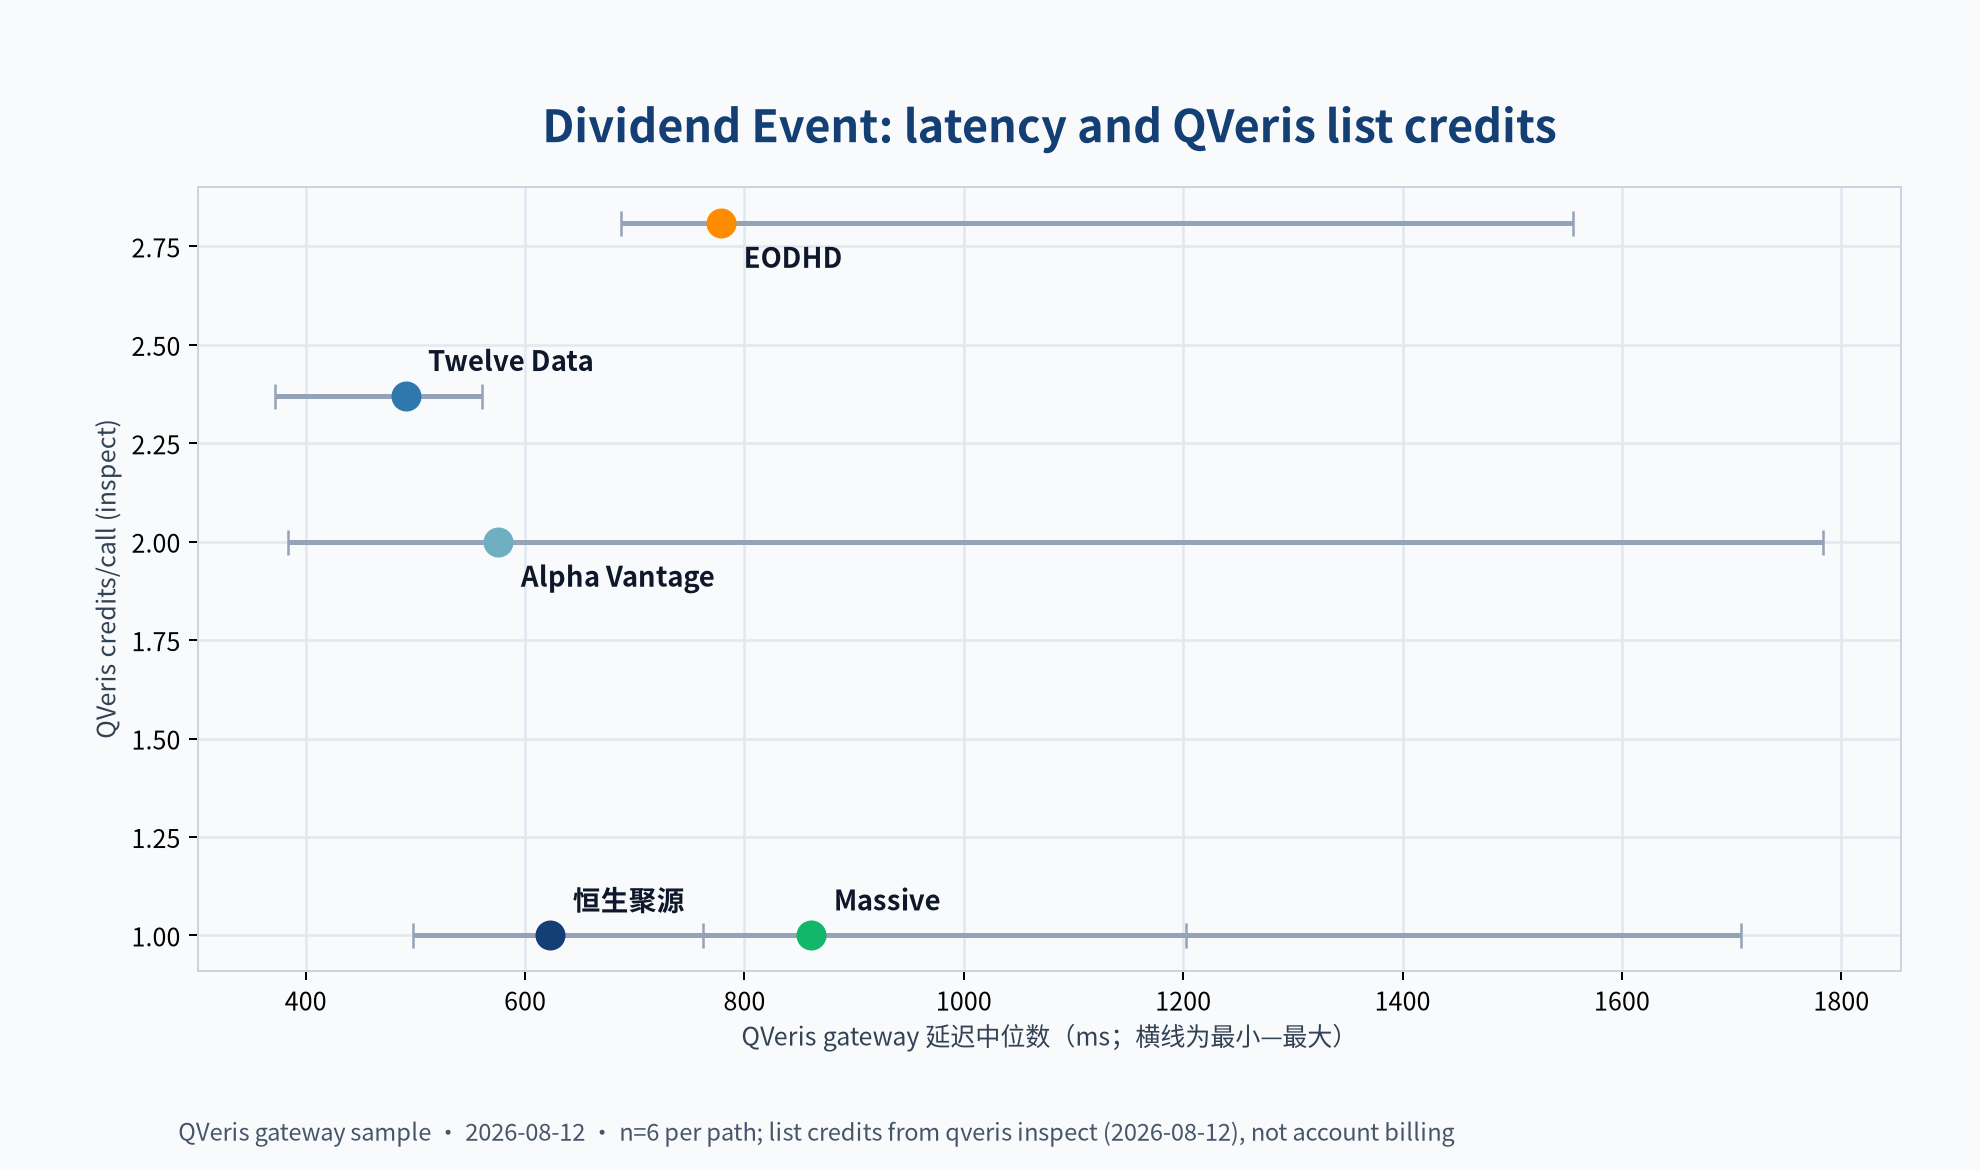
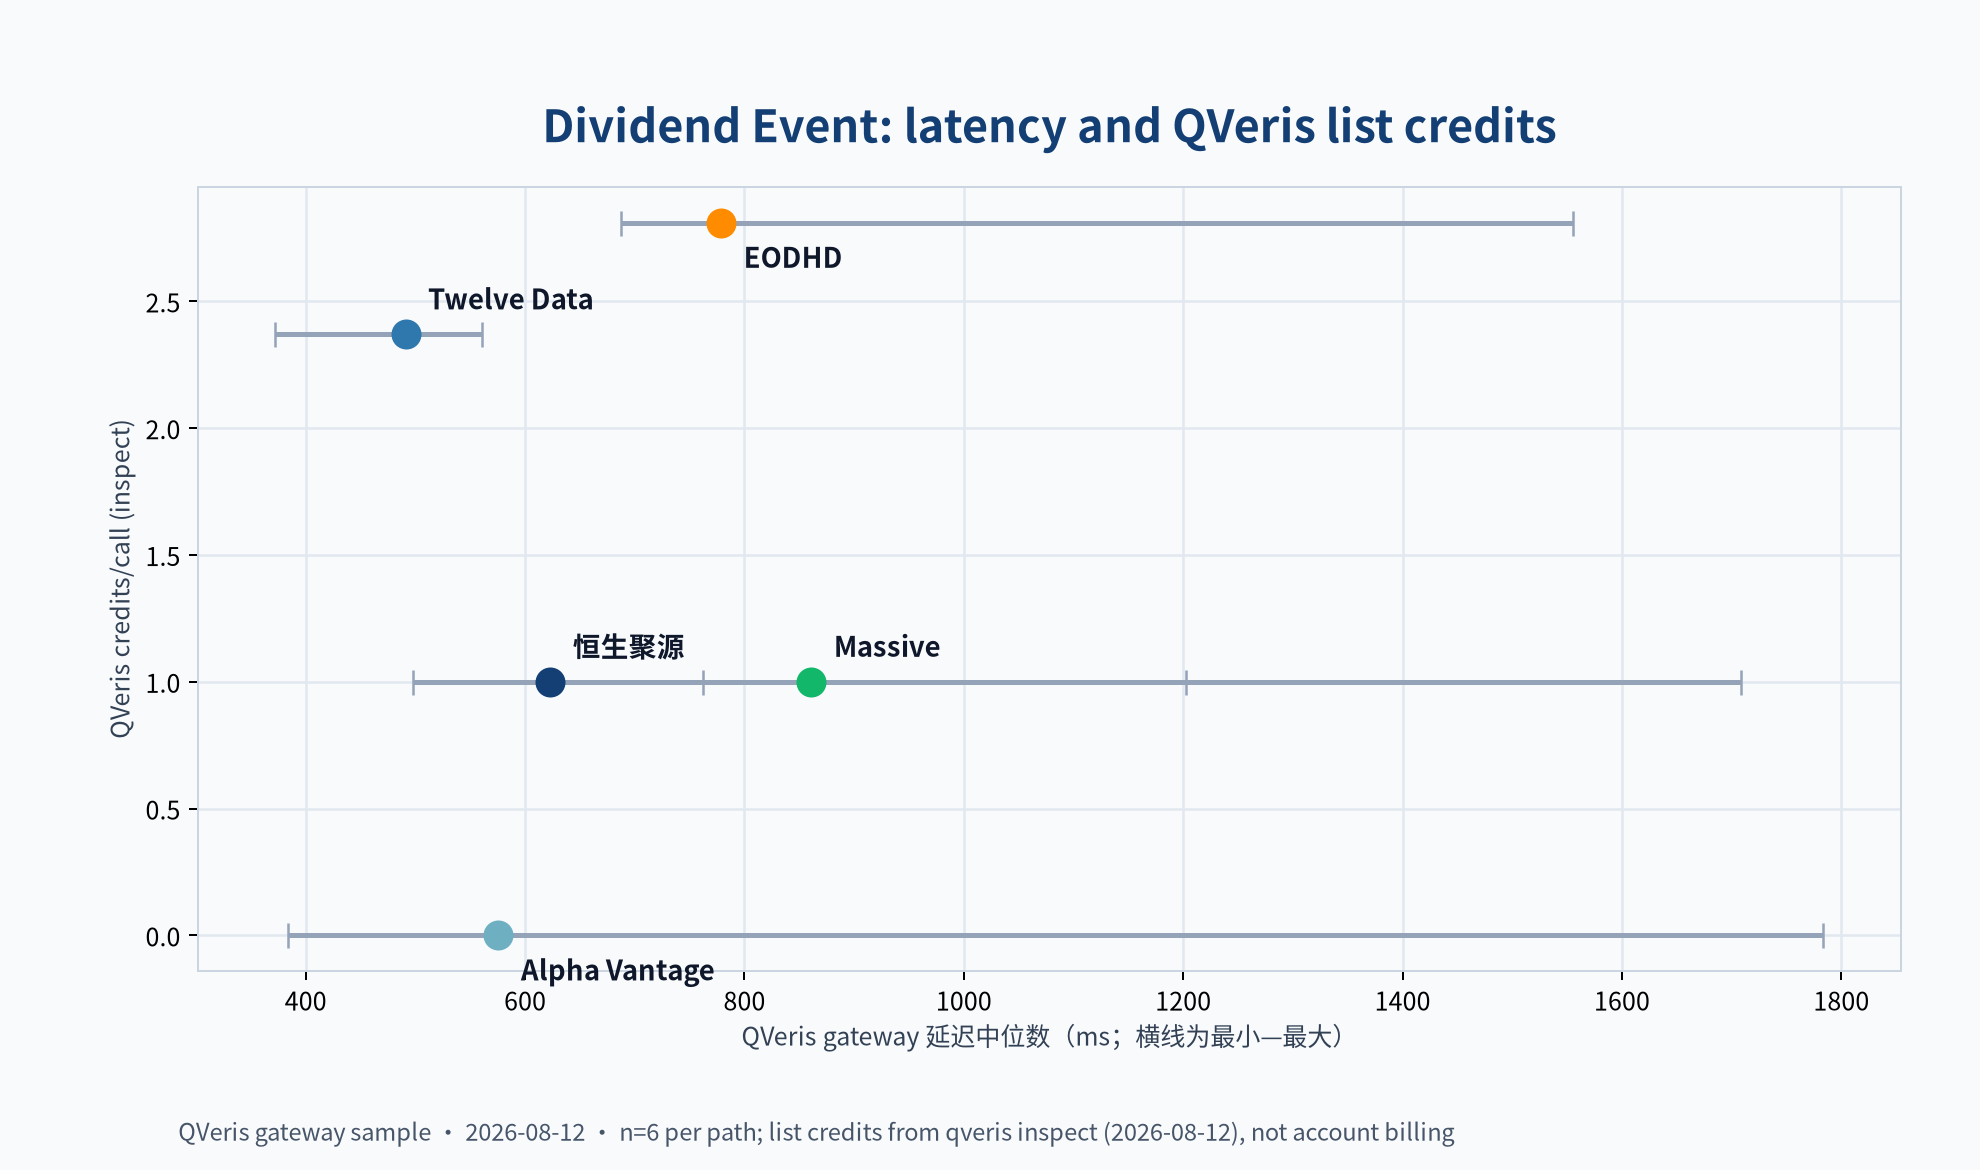
fix: refresh current QVeris list pricing
Bind the buyer guide to the live Inspect snapshot, including the current free Alpha Vantage Tool, instead of preserving a stale list price.\n\nCo-Authored-By: Codex GPT-5 <noreply@openai.com>

diff --git a/src/qveris_bench/profiles/selection.py b/src/qveris_bench/profiles/selection.py
@@ -266,6 +266,9 @@ def build_selection_snapshot(input_path: Path, root: Path) -> SelectionSnapshotB
                         inspected_at=list_prices[(provider_id, access_path_id)][
                             "inspected_at"
                         ],
+                        snapshot_version=list_prices[(provider_id, access_path_id)][
+                            "snapshot_version"
+                        ],
                         evidence_ref=list_pricing_digest,
                     )
                     if is_qveris
@@ -398,14 +401,25 @@ def _load_qveris_list_prices(
         if not isinstance(fact, dict):
             raise SelectionSnapshotBuildError("invalid QVeris list price fact")
         identity = (str(fact.get("provider_id")), str(fact.get("access_path_id")))
-        if identity in result or binding_identities.get(identity) != fact.get("tool_id"):
+        if (
+            identity in result
+            or binding_identities.get(identity) != fact.get("tool_id")
+        ):
             raise SelectionSnapshotBuildError("QVeris list price identity mismatch")
         amount = fact.get("amount_credits")
-        if isinstance(amount, bool) or not isinstance(amount, (int, float)) or amount <= 0:
+        snapshot_version = fact.get("snapshot_version")
+        if (
+            isinstance(amount, bool)
+            or not isinstance(amount, (int, float))
+            or amount < 0
+            or not isinstance(snapshot_version, str)
+            or not snapshot_version
+        ):
             raise SelectionSnapshotBuildError("invalid QVeris list price amount")
         result[identity] = {
             "amount_credits": float(amount),
             "inspected_at": inspected_at,
+            "snapshot_version": snapshot_version,
         }
     return result
 

diff --git a/src/qveris_bench/models/selection.py b/src/qveris_bench/models/selection.py
@@ -167,10 +167,11 @@ class OfficialPricingSnapshot(FrozenModel):
 
 class QVerisListPriceSnapshot(FrozenModel):
     state: QVerisListPriceState
-    amount_credits: float | None = Field(default=None, gt=0)
+    amount_credits: float | None = Field(default=None, ge=0)
     unit: Literal["per_call"] | None = None
     source: Literal["qveris_inspect"] | None = None
     inspected_at: date | None = None
+    snapshot_version: str | None = Field(default=None, min_length=1)
     evidence_ref: EvidenceRef | None = None
 
     @model_validator(mode="after")
@@ -180,6 +181,7 @@ class QVerisListPriceSnapshot(FrozenModel):
             self.unit,
             self.source,
             self.inspected_at,
+            self.snapshot_version,
             self.evidence_ref,
         )
         if self.state == "declared" and any(item is None for item in details):

diff --git a/tests/profiles/test_selection_snapshot_acceptance.py b/tests/profiles/test_selection_snapshot_acceptance.py
@@ -140,7 +140,7 @@ def test_ac5_qveris_list_prices_come_from_inspect_not_account_billing() -> None:
     expected = {
         "hangseng-dividends-qveris": 1.0,
         "massive-stocks-dividends-qveris": 1.0,
-        "alpha-vantage-dividends-qveris": 2.0,
+        "alpha-vantage-dividends-qveris": 0.0,
         "twelve-data-dividends-qveris": 2.37,
         "eodhd-dividends-qveris": 2.81,
     }
@@ -151,6 +151,7 @@ def test_ac5_qveris_list_prices_come_from_inspect_not_account_billing() -> None:
         assert price.amount_credits == amount
         assert price.unit == "per_call"
         assert price.source == "qveris_inspect"
+        assert price.snapshot_version == "website-default"
         assert price.evidence_ref.startswith("sha256:")
 
     native = rows["ifind-native-mcp"].qveris_list_price

diff --git a/tests/guides/test_dividend_guide_release.py b/tests/guides/test_dividend_guide_release.py
@@ -80,7 +80,7 @@ def test_article_publishes_inspect_list_prices_not_discounted_account_costs() ->
     expected = {
         "恒生聚源": "1 credit/call",
         "Twelve Data": "2.37 credits/call",
-        "Alpha Vantage": "2 credits/call",
+        "Alpha Vantage": "0 credits/call",
         "EODHD": "2.81 credits/call",
         "Massive": "1 credit/call",
     }
@@ -433,7 +433,7 @@ def test_article_answers_runtime_price_coverage_and_agent_decisions() -> None:
     ):
         assert phrase in article
     assert "491 ms / 2.37 credits/call" in article
-    assert "576 ms / 2 credits/call" in article
+    assert "576 ms / 0 credits/call" in article
     assert "779 ms / 2.81 credits/call" in article
     assert "861 ms / 1 credit/call" in article
     assert "综合 AI 友好度" not in article

diff --git a/docs/guides/best-dividend-apis.md b/docs/guides/best-dividend-apis.md
@@ -25,7 +25,7 @@
 | [恒生聚源](https://www.gildata.com/products/core-data.html)（QVeris）· [Try it in QVeris](https://qveris.ai/providers/hangseng_polysource) | **证据不足**：基础样本有日期和金额，但返回证券身份无法确认；修正后的 CN 新样本通过（2/2） | 623 ms / 1 credit/call | 未公开标准价，商务询价 | CN 通过（2/2）；其余 8 个未测试：明确不适用 |
 | [同花顺 iFinD](https://mcp.51ifind.com/gwstatic/static/ds_web/ifind-mcp-web/skills/SKILL_INSTALL_GUIDE.md)（Native MCP） | **本次样本未通过**：缺少单次事件日期，年度累计值也不能证明本次事件金额 | 不适用，Native MCP 不混入 QVeris 指标 | 个人版 CNY 40/月起，5,000 次请求 | US、HK、CN 本次代表样本未通过（0/2）；其余 6 个未测试：明确不适用 |
 | [Twelve Data](https://twelvedata.com/docs#dividends)（QVeris）· [Try it in QVeris](https://qveris.ai/providers/twelvedata) | **本次样本通过**：AAPL 三轮均返回除权除息日和单次金额；无效 symbol 三轮均未产生伪事件 | 491 ms / 2.37 credits/call | Grow USD 29/月起；免费层 800 credits/日 | 6 个市场通过（2/2）；HK、CN、ES 本次代表样本未通过（0/2） |
-| [Alpha Vantage](https://www.alphavantage.co/documentation/#dividends)（QVeris）· [Try it in QVeris](https://qveris.ai/providers/alphavantage) | **本次样本通过**：AAPL 正向样本与无效 symbol 控制均连续三轮满足门槛 | 576 ms / 2 credits/call | Premium USD 49.99/月起；免费层 25 次/日 | 4 个适用市场通过（2/2）；5 个未测试：明确不适用 |
+| [Alpha Vantage](https://www.alphavantage.co/documentation/#dividends)（QVeris）· [Try it in QVeris](https://qveris.ai/providers/alphavantage) | **本次样本通过**：AAPL 正向样本与无效 symbol 控制均连续三轮满足门槛 | 576 ms / 0 credits/call | Premium USD 49.99/月起；免费层 25 次/日 | 4 个适用市场通过（2/2）；5 个未测试：明确不适用 |
 | [EODHD](https://eodhd.com/financial-apis/api-splits-dividends/)（QVeris）· [Try it in QVeris](https://qveris.ai/providers/eodhd) | **本次样本通过**：AAPL 正向样本与无效 symbol 控制均连续三轮满足门槛 | 779 ms / 2.81 credits/call | All-in-One USD 99.99/月 | 7 个市场通过（2/2）；JP、IN 本次代表样本未通过（0/2） |
 | [Massive](https://massive.com/docs/rest/stocks/corporate-actions/dividends)（QVeris）· [Try it in QVeris](https://qveris.ai/providers/massive_stocks) | **本次样本通过**：AAPL 正向样本与无效 symbol 控制均连续三轮满足门槛 | 861 ms / 1 credit/call | [Stocks Basic Free](https://massive.com/pricing?product=stocks)；Dividend endpoint 包含在所有 Stocks plans | US 通过（2/2）；其余 8 个未测试：明确不适用 |
 
